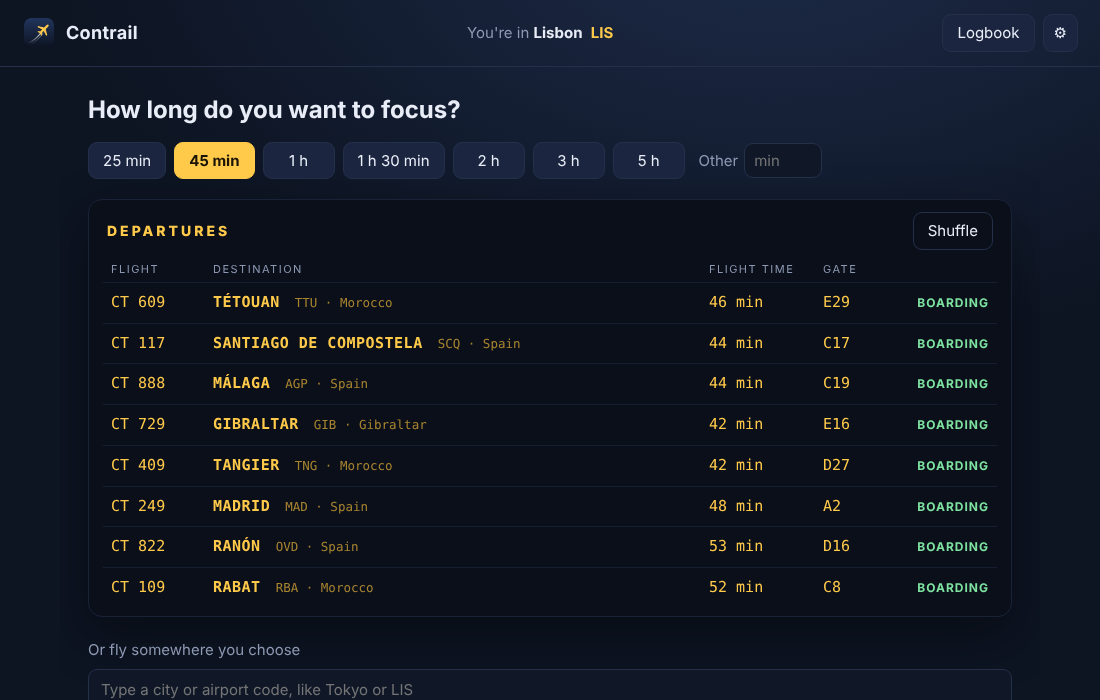
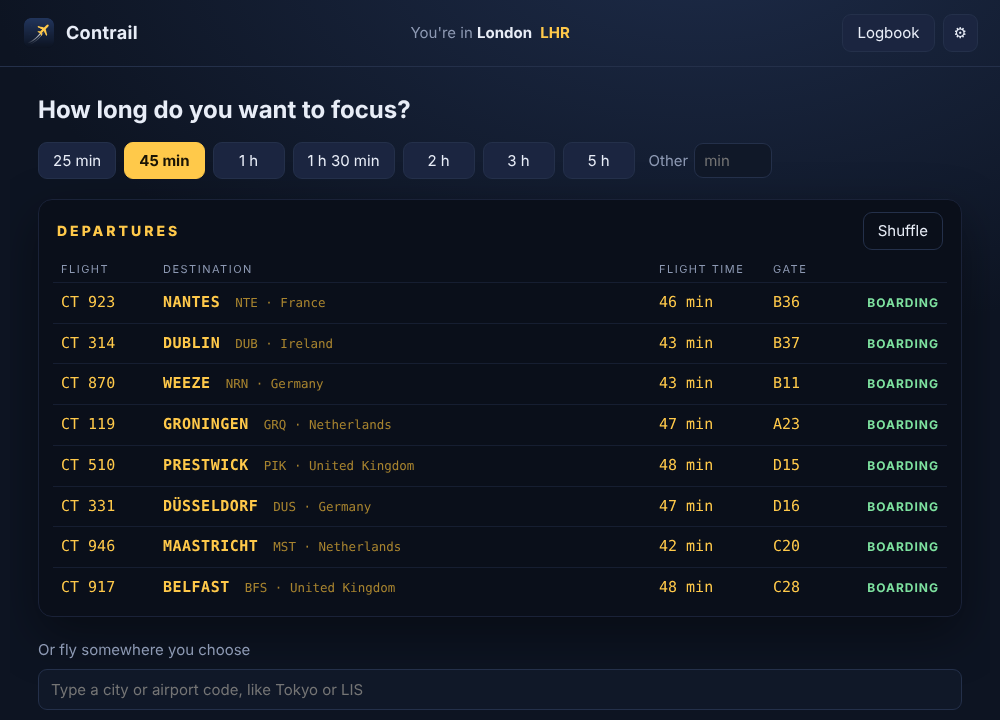
Sleeker settings and smoother transitions
Shared design kit (ui.css/ui.js): switch toggles, filled sliders with
live values, blurred dialog backdrop, softer buttons and view fades.

Claude-Session: https://claude.ai/code/session_01TZPYSw6e2Wc2aurNbLVprD

diff --git a/src/css/ui.css b/src/css/ui.css
@@ -1,0 +1,146 @@
+/* Chipper UI: the shared look for every Chipper app's windows.
+   Low-specificity (:where) base styles for form controls, so each app's own CSS
+   still wins. Each app sets --accent (and optionally --accent-ink for text on it). */
+:root {
+  --ui-bg: #0d0e12;
+  --ui-panel: #14161c;
+  --ui-panel-2: #1a1d24;
+  --ui-line: rgba(255, 255, 255, 0.075);
+  --ui-line-2: rgba(255, 255, 255, 0.13);
+  --ui-text: #eceef3;
+  --ui-dim: #8b91a1;
+  --ui-faint: #5f6575;
+  --accent: #6c8cff;
+  --accent-ink: #0b0d12;
+  --ui-radius: 14px;
+  --ui-ease: cubic-bezier(.2, .8, .2, 1);
+  --ui-font: Inter, 'Segoe UI Variable Text', 'Segoe UI', -apple-system, BlinkMacSystemFont, 'Helvetica Neue', Ubuntu, Cantarell, sans-serif;
+  --ui-mono: 'JetBrains Mono', 'Cascadia Code', 'SF Mono', Menlo, Consolas, monospace;
+}
+/* Apps that follow the system theme put class="ui-auto" on <html>. */
+@media (prefers-color-scheme: light) {
+  :root.ui-auto {
+    --ui-bg: #f4f5f8; --ui-panel: #ffffff; --ui-panel-2: #f6f7fa; --ui-line: rgba(16, 22, 38, 0.08); --ui-line-2: rgba(16, 22, 38, 0.15);
+    --ui-text: #171a23; --ui-dim: #646c80; --ui-faint: #9aa1b2; color-scheme: light;
+  }
+  :root.ui-auto .ui-card, :root.ui-auto .ui-section { box-shadow: 0 1px 2px rgba(16, 22, 38, 0.04), 0 12px 30px -22px rgba(16, 22, 38, 0.3); }
+}
+:root { color-scheme: dark; }
+[hidden] { display: none !important; }
+
+:where(body) { -webkit-font-smoothing: antialiased; -moz-osx-font-smoothing: grayscale; text-rendering: optimizeLegibility; }
+:where(button, input, select, textarea) { font: inherit; color: inherit; }
+:where(button) { cursor: pointer; }
+
+/* Switches: every checkbox becomes a smooth toggle. */
+:where(input[type=checkbox]) {
+  appearance: none; -webkit-appearance: none; flex: none; margin: 0; cursor: pointer;
+  width: 36px; height: 21px; border-radius: 999px; position: relative; vertical-align: middle;
+  background: var(--ui-line-2); transition: background 0.25s var(--ui-ease), box-shadow 0.2s;
+}
+:where(input[type=checkbox])::after {
+  content: ''; position: absolute; top: 2px; left: 2px; width: 17px; height: 17px; border-radius: 50%;
+  background: #fff; box-shadow: 0 1px 3px rgba(0, 0, 0, 0.35); transition: transform 0.25s var(--ui-ease);
+}
+:where(input[type=checkbox]:checked) { background: var(--accent); }
+:where(input[type=checkbox]:checked)::after { transform: translateX(15px); }
+:where(input[type=checkbox]:disabled) { opacity: 0.4; cursor: default; }
+
+/* Sliders: a thin track that fills with the accent and a soft round thumb. */
+:where(input[type=range]) {
+  appearance: none; -webkit-appearance: none; background: transparent; height: 22px; margin: 0; cursor: pointer;
+  --fill: 50%;
+}
+:where(input[type=range])::-webkit-slider-runnable-track {
+  height: 4px; border-radius: 4px;
+  background: linear-gradient(to right, var(--accent) var(--fill), var(--ui-line-2) var(--fill));
+}
+:where(input[type=range])::-moz-range-track { height: 4px; border-radius: 4px; background: var(--ui-line-2); }
+:where(input[type=range])::-moz-range-progress { height: 4px; border-radius: 4px; background: var(--accent); }
+:where(input[type=range])::-webkit-slider-thumb {
+  -webkit-appearance: none; width: 16px; height: 16px; margin-top: -6px; border-radius: 50%;
+  background: #fff; border: 0; box-shadow: 0 0 0 4px color-mix(in srgb, var(--accent) 0%, transparent), 0 1px 4px rgba(0, 0, 0, 0.45);
+  transition: box-shadow 0.2s, transform 0.15s var(--ui-ease);
+}
+:where(input[type=range])::-moz-range-thumb { width: 16px; height: 16px; border-radius: 50%; background: #fff; border: 0; box-shadow: 0 1px 4px rgba(0, 0, 0, 0.45); }
+:where(input[type=range]:hover)::-webkit-slider-thumb { box-shadow: 0 0 0 5px color-mix(in srgb, var(--accent) 22%, transparent), 0 1px 4px rgba(0, 0, 0, 0.45); }
+:where(input[type=range]:active)::-webkit-slider-thumb { transform: scale(1.1); }
+
+/* Text, number and select fields. */
+:where(input[type=text], input[type=number], input[type=search], input[type=time], input:not([type]), select, textarea) {
+  background: var(--ui-panel-2); border: 1px solid var(--ui-line-2); border-radius: 9px; padding: 7px 10px; outline: none;
+  transition: border-color 0.15s, box-shadow 0.15s;
+}
+:where(input[type=text], input[type=number], input[type=search], input[type=time], input:not([type]), select, textarea):focus {
+  border-color: color-mix(in srgb, var(--accent) 70%, transparent); box-shadow: 0 0 0 3px color-mix(in srgb, var(--accent) 18%, transparent);
+}
+:where(input[type=number]) { -moz-appearance: textfield; font-variant-numeric: tabular-nums; }
+:where(input[type=number])::-webkit-inner-spin-button, :where(input[type=number])::-webkit-outer-spin-button { -webkit-appearance: none; margin: 0; }
+:where(select) {
+  appearance: none; -webkit-appearance: none; padding-right: 28px; cursor: pointer;
+  background-image: linear-gradient(45deg, transparent 50%, var(--ui-dim) 50%), linear-gradient(135deg, var(--ui-dim) 50%, transparent 50%);
+  background-position: calc(100% - 15px) 52%, calc(100% - 10px) 52%; background-size: 5px 5px; background-repeat: no-repeat;
+}
+:where(input::placeholder, textarea::placeholder) { color: var(--ui-faint); }
+
+/* Focus rings only for keyboard users. */
+:where(:focus) { outline: none; }
+:where(:focus-visible) { outline: 2px solid color-mix(in srgb, var(--accent) 80%, transparent); outline-offset: 2px; }
+
+/* Scrollbars that stay out of the way. */
+::-webkit-scrollbar { width: 10px; height: 10px; }
+::-webkit-scrollbar-thumb { background: var(--ui-line-2); border-radius: 10px; border: 3px solid transparent; background-clip: padding-box; }
+::-webkit-scrollbar-thumb:hover { background-color: rgba(255, 255, 255, 0.2); }
+::-webkit-scrollbar-track { background: transparent; }
+
+/* Shared building blocks, used by apps that opt in. */
+.ui-card { background: var(--ui-panel); border: 1px solid var(--ui-line); border-radius: var(--ui-radius); box-shadow: 0 1px 0 rgba(255, 255, 255, 0.03) inset, 0 14px 32px -22px rgba(0, 0, 0, 0.85); }
+.ui-btn { border: 1px solid var(--ui-line-2); background: var(--ui-panel-2); border-radius: 10px; padding: 7px 14px; font-weight: 600; transition: border-color 0.15s, background 0.15s, transform 0.12s; }
+.ui-btn:hover { border-color: rgba(255, 255, 255, 0.25); }
+.ui-btn:active { transform: scale(0.98); }
+.ui-btn.primary { background: var(--accent); color: var(--accent-ink); border-color: transparent; box-shadow: 0 8px 20px -12px var(--accent); }
+.ui-btn.primary:hover { filter: brightness(1.07); }
+
+/* Settings page layout: header, a column of cards, rows of label + control. */
+body.ui { margin: 0; background: var(--ui-bg); color: var(--ui-text); font: 14px/1.45 var(--ui-font); }
+.ui-header { position: sticky; top: 0; z-index: 5; display: flex; align-items: center; gap: 14px; padding: 16px 28px; border-bottom: 1px solid var(--ui-line); background: color-mix(in srgb, var(--ui-bg) 84%, transparent); backdrop-filter: blur(14px); -webkit-backdrop-filter: blur(14px); }
+.ui-header img { width: 40px; height: 40px; border-radius: 10px; box-shadow: 0 6px 16px -8px rgba(0, 0, 0, 0.6); }
+.ui-header h1 { margin: 0; font-size: 18px; font-weight: 700; letter-spacing: -0.02em; }
+.ui-header p { margin: 1px 0 0; color: var(--ui-dim); font-size: 13px; }
+.ui-header .end { margin-left: auto; display: flex; align-items: center; gap: 10px; }
+.ui-page { max-width: 880px; margin: 0 auto; padding: 22px 28px 28px; display: flex; flex-direction: column; gap: 16px; }
+.ui-section { background: var(--ui-panel); border: 1px solid var(--ui-line); border-radius: var(--ui-radius); box-shadow: 0 1px 0 rgba(255, 255, 255, 0.03) inset, 0 14px 32px -22px rgba(0, 0, 0, 0.85); padding: 18px 20px; animation: ui-in 0.45s var(--ui-ease) both; }
+.ui-section:nth-child(2) { animation-delay: 40ms; } .ui-section:nth-child(3) { animation-delay: 80ms; } .ui-section:nth-child(n+4) { animation-delay: 120ms; }
+.ui-section > h2 { margin: 0; font-size: 14px; font-weight: 650; letter-spacing: -0.005em; display: flex; align-items: center; gap: 10px; }
+.ui-section > h2 .end { margin-left: auto; }
+.ui-section > .desc { margin: 3px 0 12px; color: var(--ui-dim); font-size: 13px; }
+.ui-section > h2 + .ui-row { margin-top: 6px; }
+.ui-row { display: flex; align-items: center; gap: 16px; padding: 12px 0; }
+.ui-row + .ui-row { border-top: 1px solid var(--ui-line); }
+.ui-row > .label { flex: 1; min-width: 0; }
+.ui-row > .label b { display: block; font-weight: 600; }
+.ui-row > .label small { display: block; margin-top: 1px; color: var(--ui-dim); font-size: 12.5px; }
+.ui-row input[type=range] { width: min(240px, 40vw); }
+.ui-row output { min-width: 52px; text-align: right; color: var(--ui-dim); font-variant-numeric: tabular-nums; font-size: 13px; }
+.ui-row input[type=text] { width: min(280px, 45vw); }
+.ui-footer { display: flex; align-items: center; justify-content: space-between; gap: 16px; padding: 2px 4px 0; color: var(--ui-faint); font-size: 12.5px; }
+.ui-link { border: 0; background: none; padding: 0; color: var(--ui-dim); text-decoration: underline; text-decoration-color: var(--ui-line-2); text-underline-offset: 3px; }
+.ui-link:hover { color: var(--ui-text); text-decoration-color: currentColor; }
+kbd { font: 11.5px/1.4 var(--ui-mono); padding: 1px 6px; border: 1px solid var(--ui-line-2); border-bottom-width: 2px; border-radius: 6px; background: var(--ui-panel-2); color: var(--ui-dim); }
+.ui-seg { display: inline-flex; padding: 3px; gap: 2px; background: var(--ui-panel-2); border: 1px solid var(--ui-line); border-radius: 10px; }
+.ui-seg button { border: 0; background: none; padding: 5px 12px; border-radius: 7px; color: var(--ui-dim); font-weight: 600; font-size: 13px; transition: background 0.2s, color 0.2s; }
+.ui-seg button:hover { color: var(--ui-text); }
+.ui-seg button.on, .ui-seg button[aria-checked=true], .ui-seg button[aria-pressed=true] { background: var(--ui-panel); color: var(--ui-text); box-shadow: 0 1px 3px rgba(0, 0, 0, 0.3), 0 0 0 1px var(--ui-line); }
+.ui-tile { border: 1px solid var(--ui-line); background: var(--ui-panel-2); border-radius: 12px; transition: border-color 0.2s, box-shadow 0.25s var(--ui-ease), transform 0.2s var(--ui-ease), background 0.2s; }
+.ui-tile:hover { border-color: var(--ui-line-2); transform: translateY(-1px); }
+.ui-tile.on, .ui-tile[aria-checked=true] { border-color: var(--accent); box-shadow: 0 0 0 1px var(--accent), 0 10px 26px -14px var(--accent); background: color-mix(in srgb, var(--accent) 8%, var(--ui-panel-2)); }
+.ui-badge { display: inline-flex; align-items: center; gap: 6px; padding: 3px 10px; border-radius: 999px; font-size: 12px; font-weight: 600; background: var(--ui-panel-2); border: 1px solid var(--ui-line-2); color: var(--ui-dim); }
+.ui-badge.live { color: var(--ui-text); }
+.ui-badge.live::before { content: ''; width: 7px; height: 7px; border-radius: 50%; background: var(--accent); box-shadow: 0 0 8px var(--accent); }
+
+@keyframes ui-in { from { opacity: 0; transform: translateY(6px); } }
+.ui-in { animation: ui-in 0.45s var(--ui-ease) both; }
+
+@media (prefers-reduced-motion: reduce) {
+  *, *::before, *::after { animation-duration: 0.01ms !important; transition-duration: 0.01ms !important; }
+}

diff --git a/src/css/app.css b/src/css/app.css
@@ -7,7 +7,13 @@
   --muted: #8d99b3;
   --amber: #ffc94a;
   --amber-dim: #a8842f;
-  --accent: #5aa9ff;
+  --accent: #ffc94a;
+  --accent-ink: #1a1405;
+  --ui-panel: #121a2c;
+  --ui-panel-2: #101828;
+  --ui-line: rgba(140, 170, 230, 0.12);
+  --ui-line-2: rgba(140, 170, 230, 0.2);
+  --ui-dim: #8d99b3;
   --red: #e5534b;
   --paper: #fbf8f1;
   --paper-ink: #1c2230;
@@ -19,7 +25,8 @@ html, body { margin: 0; height: 100%; }
 body {
   background: radial-gradient(1200px 700px at 70% -10%, #1d2b48 0%, var(--sky) 60%) fixed, var(--sky);
   color: var(--ink);
-  font: 15px/1.45 system-ui, -apple-system, 'Segoe UI', Roboto, Ubuntu, sans-serif;
+  font: 15px/1.45 var(--ui-font);
+  -webkit-font-smoothing: antialiased;
   overflow: hidden;
   user-select: none;
 }
@@ -31,10 +38,12 @@ button {
   border-radius: 9px;
   padding: 7px 14px;
   cursor: pointer;
+  transition: background 0.18s, border-color 0.18s, transform 0.12s var(--ui-ease), box-shadow 0.2s;
 }
 button:hover { border-color: #3a4a6e; background: #22304f; }
+button:active { transform: scale(0.97); }
 button:focus-visible, input:focus-visible { outline: 2px solid var(--accent); outline-offset: 2px; }
-button.primary { background: var(--amber); color: #1a1405; border-color: var(--amber); font-weight: 700; }
+button.primary { background: var(--amber); color: #1a1405; border-color: var(--amber); font-weight: 700; box-shadow: 0 10px 24px -12px var(--amber); }
 button.primary:hover { background: #ffd56e; }
 button.ghost { background: transparent; }
 button.danger { background: var(--red); border-color: var(--red); color: #fff; font-weight: 600; }
@@ -54,7 +63,9 @@ body[data-view='board'] #board,
 body[data-view='pass'] #pass,
 body[data-view='flight'] #flight,
 body[data-view='arrived'] #arrived,
-body[data-view='log'] #log { display: flex; flex-direction: column; }
+body[data-view='log'] #log { display: flex; flex-direction: column; animation: view-in 0.5s var(--ui-ease) both; }
+@keyframes view-in { from { opacity: 0; transform: translateY(10px) scale(0.995); } }
+body[data-view='flight'] #flight { animation-duration: 0.9s; }
 
 /* ---------- Header */
 .top {
@@ -100,6 +111,7 @@ h1 { font-size: 24px; font-weight: 650; margin: 4px 0 14px; }
   padding: 9px 8px;
   animation: flip 0.5s calc(var(--i) * 45ms) both;
 }
+.dep { transition: background 0.15s; }
 .dep:hover { background: #121a2c; }
 .flap {
   font-family: ui-monospace, 'SF Mono', Menlo, Consolas, 'DejaVu Sans Mono', monospace;
@@ -267,19 +279,25 @@ body.mini #f-phase { display: none; }
 
 /* ---------- Settings */
 dialog {
-  background: #121a2c;
+  background: color-mix(in srgb, #121a2c 94%, transparent);
+  box-shadow: 0 30px 80px -20px rgba(0, 0, 0, 0.8);
   color: var(--ink);
   border: 1px solid var(--line);
   border-radius: 16px;
   width: min(420px, calc(100% - 32px));
   padding: 20px 22px;
 }
-dialog::backdrop { background: #000a; }
+dialog::backdrop { background: rgba(4, 8, 16, 0.55); backdrop-filter: blur(6px); }
+dialog[open] { animation: dialog-in 0.35s var(--ui-ease) both; }
+@keyframes dialog-in { from { opacity: 0; transform: translateY(12px) scale(0.98); } }
 dialog h2 { margin: 0 0 14px; font-size: 19px; }
 dialog form { display: grid; gap: 12px; }
-dialog label { display: grid; gap: 6px; color: var(--muted); }
-dialog label.check { display: flex; gap: 10px; align-items: center; color: var(--ink); }
-dialog input[type='range'] { padding: 0; }
+dialog .field { display: grid; gap: 6px; color: var(--muted); font-size: 13px; font-weight: 600; }
+dialog .field input { font-weight: 400; font-size: 15px; }
+dialog .rows { border-top: 1px solid var(--ui-line); }
+dialog .ui-row { padding: 11px 0; }
+dialog .ui-row b { font-size: 14px; }
+dialog .ui-row input[type=range] { width: 150px; }
 .dialog-actions { display: flex; justify-content: flex-end; margin-top: 6px; }
 
 @media (max-width: 720px) {

diff --git a/src/index.html b/src/index.html
@@ -4,7 +4,9 @@
   <meta charset="utf-8">
   <meta name="viewport" content="width=device-width, initial-scale=1">
   <title>Contrail</title>
+  <link rel="stylesheet" href="css/ui.css">
   <link rel="stylesheet" href="css/app.css">
+  <script src="js/ui.js"></script>
 </head>
 <body data-view="board">
   <!-- Departures -->
@@ -130,12 +132,14 @@
   <dialog id="settings">
     <form method="dialog">
       <h2>Settings</h2>
-      <label>Your name on boarding passes <input id="s-name" maxlength="28" placeholder="Passenger"></label>
-      <label>Where you are now <input id="s-home" list="airports" placeholder="City or airport code"></label>
-      <label class="check"><input type="checkbox" id="s-sound"> Cabin sound while flying</label>
-      <label>Volume <input type="range" id="s-volume" min="0" max="1" step="0.05"></label>
-      <label class="check"><input type="checkbox" id="s-announce"> Captain's announcements</label>
-      <label class="check"><input type="checkbox" id="s-notify"> Notify me when we land</label>
+      <label class="field"><span>Your name on boarding passes</span><input id="s-name" maxlength="28" placeholder="Passenger"></label>
+      <label class="field"><span>Where you are now</span><input id="s-home" list="airports" placeholder="City or airport code"></label>
+      <div class="rows">
+        <label class="ui-row"><span class="label"><b>Cabin sound</b><small>A soft engine hum while you fly</small></span><input type="checkbox" id="s-sound"></label>
+        <label class="ui-row"><span class="label"><b>Volume</b></span><input type="range" id="s-volume" min="0" max="1" step="0.05" data-format="pct"><output for="s-volume"></output></label>
+        <label class="ui-row"><span class="label"><b>Captain's announcements</b><small>Now and then, from the flight deck</small></span><input type="checkbox" id="s-announce"></label>
+        <label class="ui-row"><span class="label"><b>Notify me when we land</b></span><input type="checkbox" id="s-notify"></label>
+      </div>
       <div class="dialog-actions"><button value="ok" class="primary">Done</button></div>
     </form>
   </dialog>

diff --git a/src/js/ui.js b/src/js/ui.js
@@ -1,0 +1,32 @@
+// Chipper UI helper: keeps each slider's filled part in step with its value.
+// A slider with an id also updates <output for="id">, formatted by data-format:
+// "pct" (0..1 as a percentage), "px", "ms", "x" (a multiplier), or a unit word.
+const FORMATS = {
+  pct: (v) => `${Math.round(v * 100)}%`,
+  px: (v) => `${Math.round(v)} px`,
+  ms: (v) => `${Math.round(v)} ms`,
+  x: (v) => `${v.toFixed(1)}×`,
+};
+const paint = (r) => {
+  const min = Number(r.min || 0), max = Number(r.max || 100), v = Number(r.value);
+  const fill = `${((v - min) / (max - min || 1)) * 100}%`;
+  if (r.style.getPropertyValue('--fill') !== fill) r.style.setProperty('--fill', fill);
+  if (r.id) {
+    const out = document.querySelector(`output[for="${r.id}"]`);
+    const f = r.dataset.format;
+    const text = FORMATS[f] ? FORMATS[f](v) : f ? `${v} ${f}` : String(v);
+    // Only touch the text when it changes, so the observer below doesn't loop.
+    if (out && out.textContent !== text) out.textContent = text;
+  }
+};
+const all = () => document.querySelectorAll('input[type=range]').forEach(paint);
+document.addEventListener('input', (e) => { if (e.target.matches?.('input[type=range]')) paint(e.target); });
+// Values set from script don't fire events, so catch those too.
+const desc = Object.getOwnPropertyDescriptor(HTMLInputElement.prototype, 'value');
+Object.defineProperty(HTMLInputElement.prototype, 'value', {
+  ...desc,
+  set(v) { desc.set.call(this, v); if (this.type === 'range') paint(this); },
+});
+new MutationObserver(all).observe(document.documentElement, { subtree: true, childList: true });
+addEventListener('DOMContentLoaded', all);
+all();
